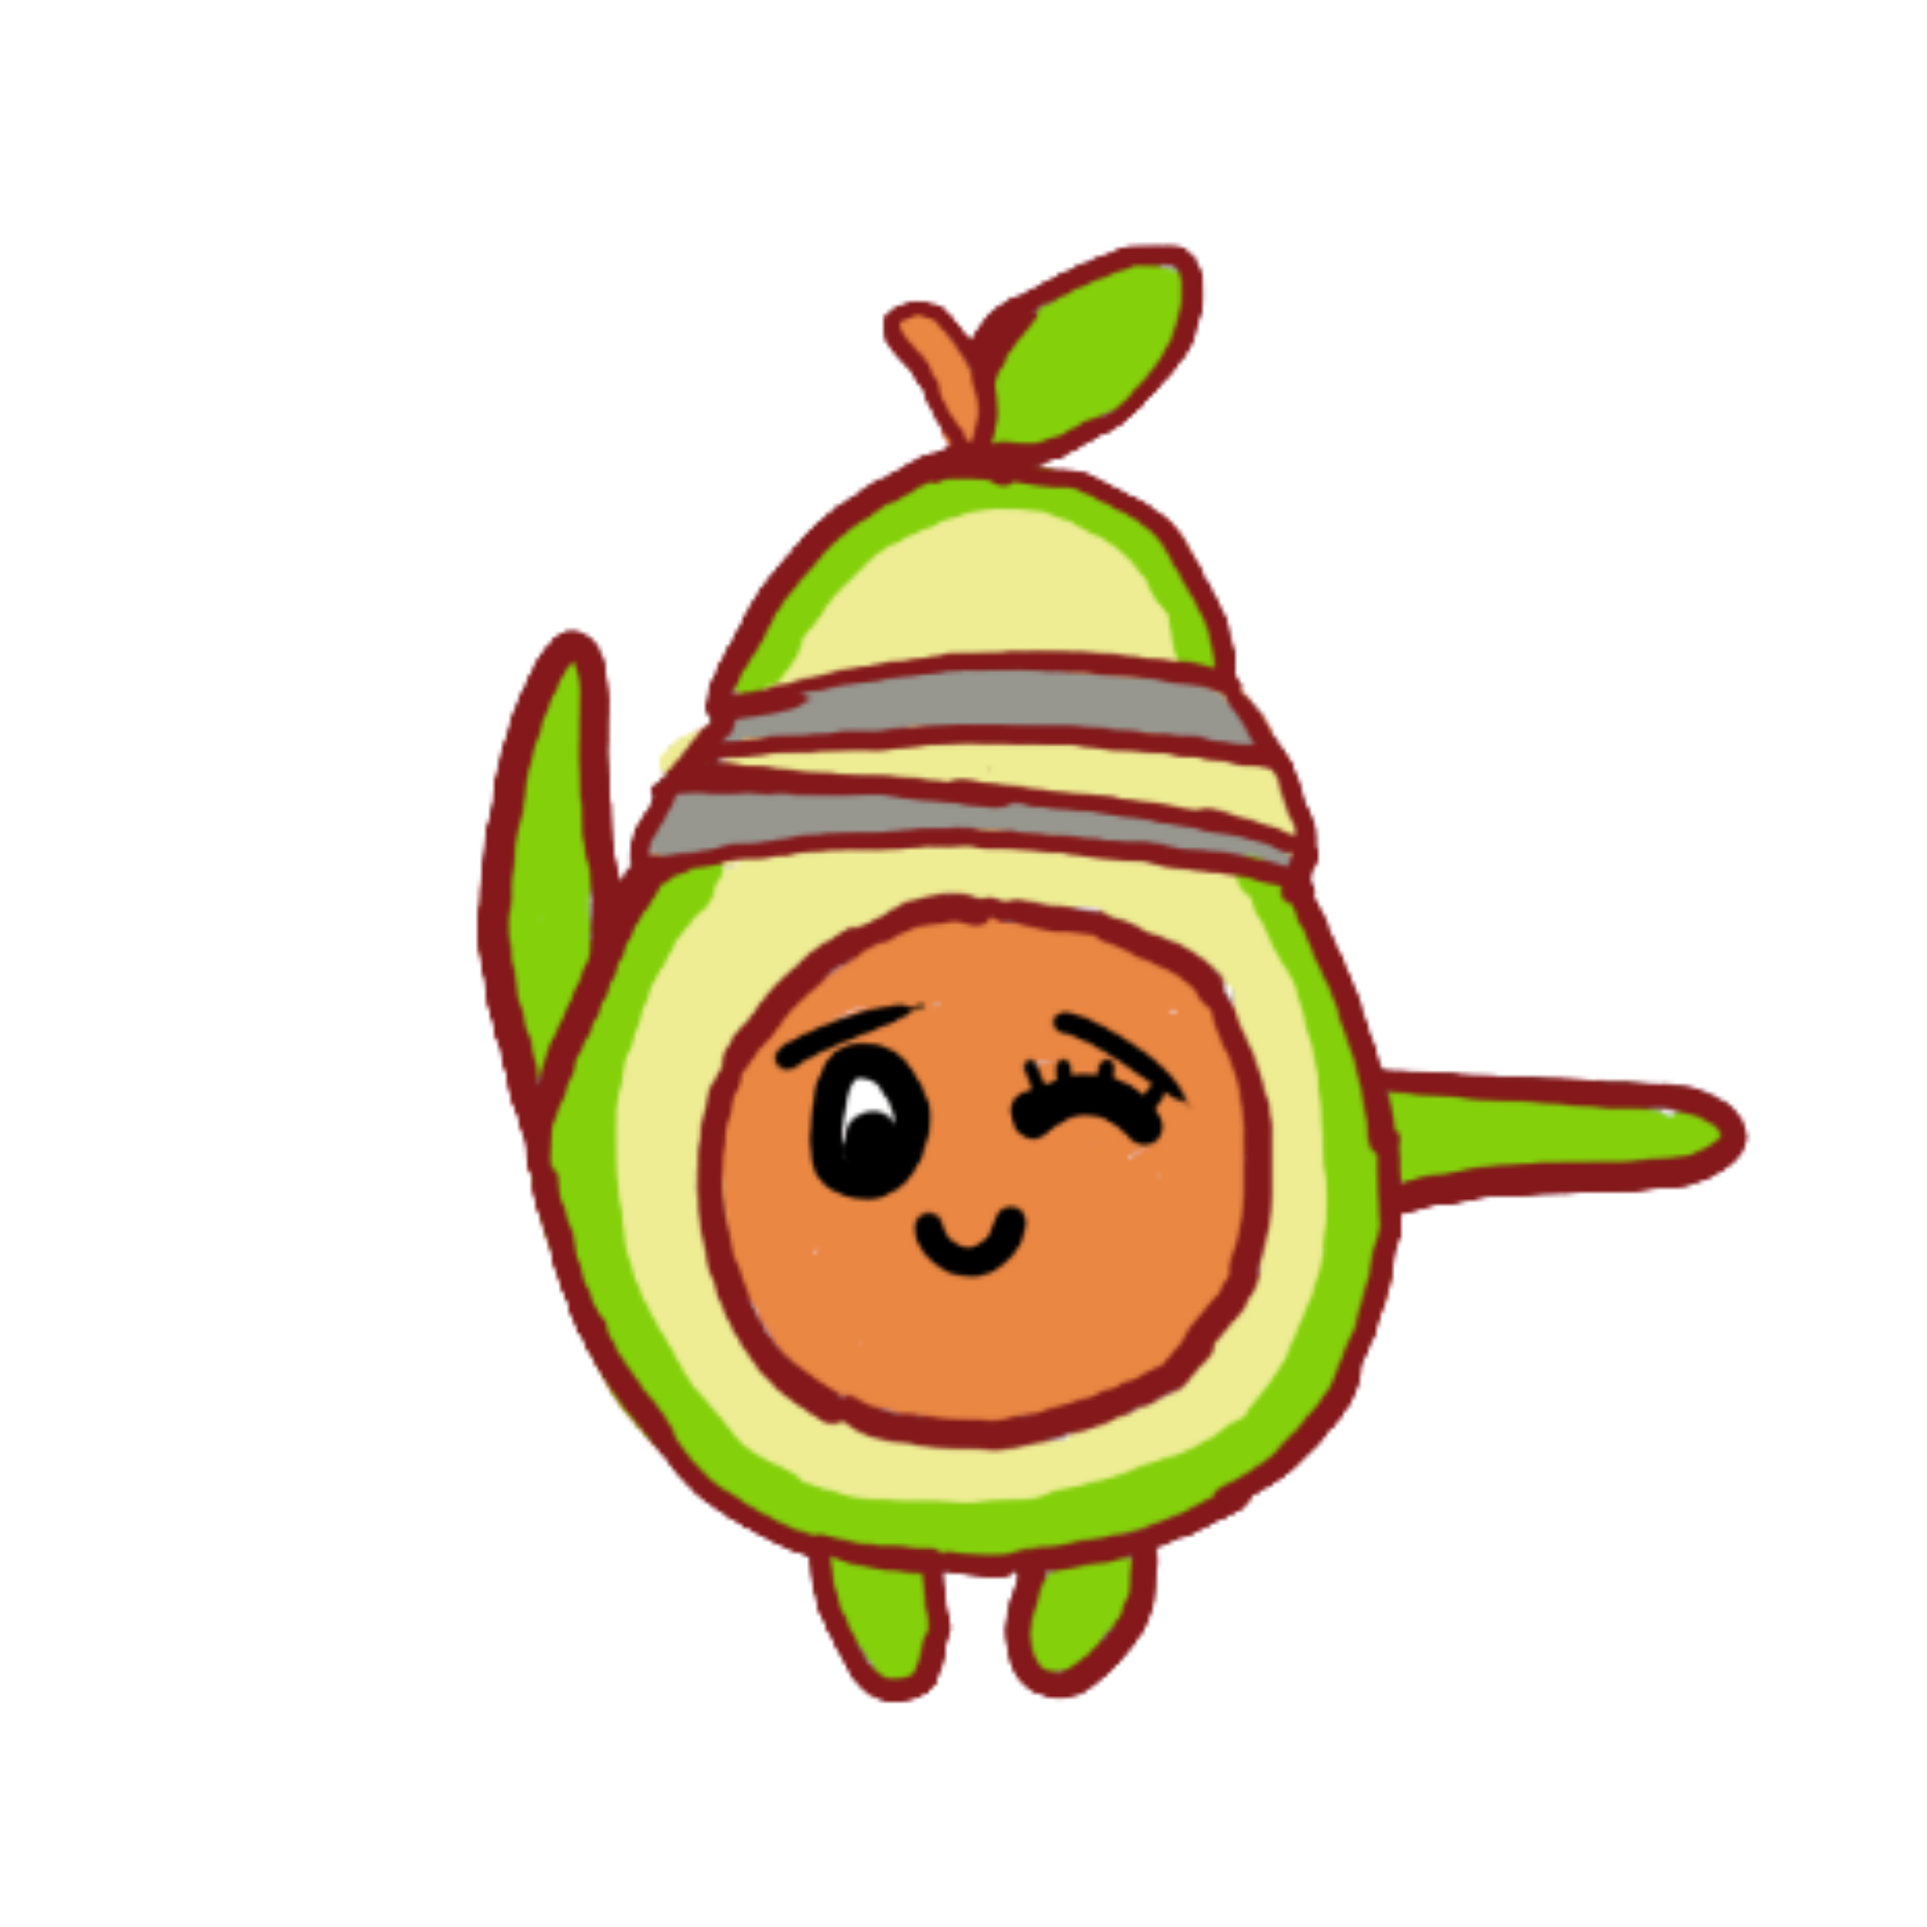
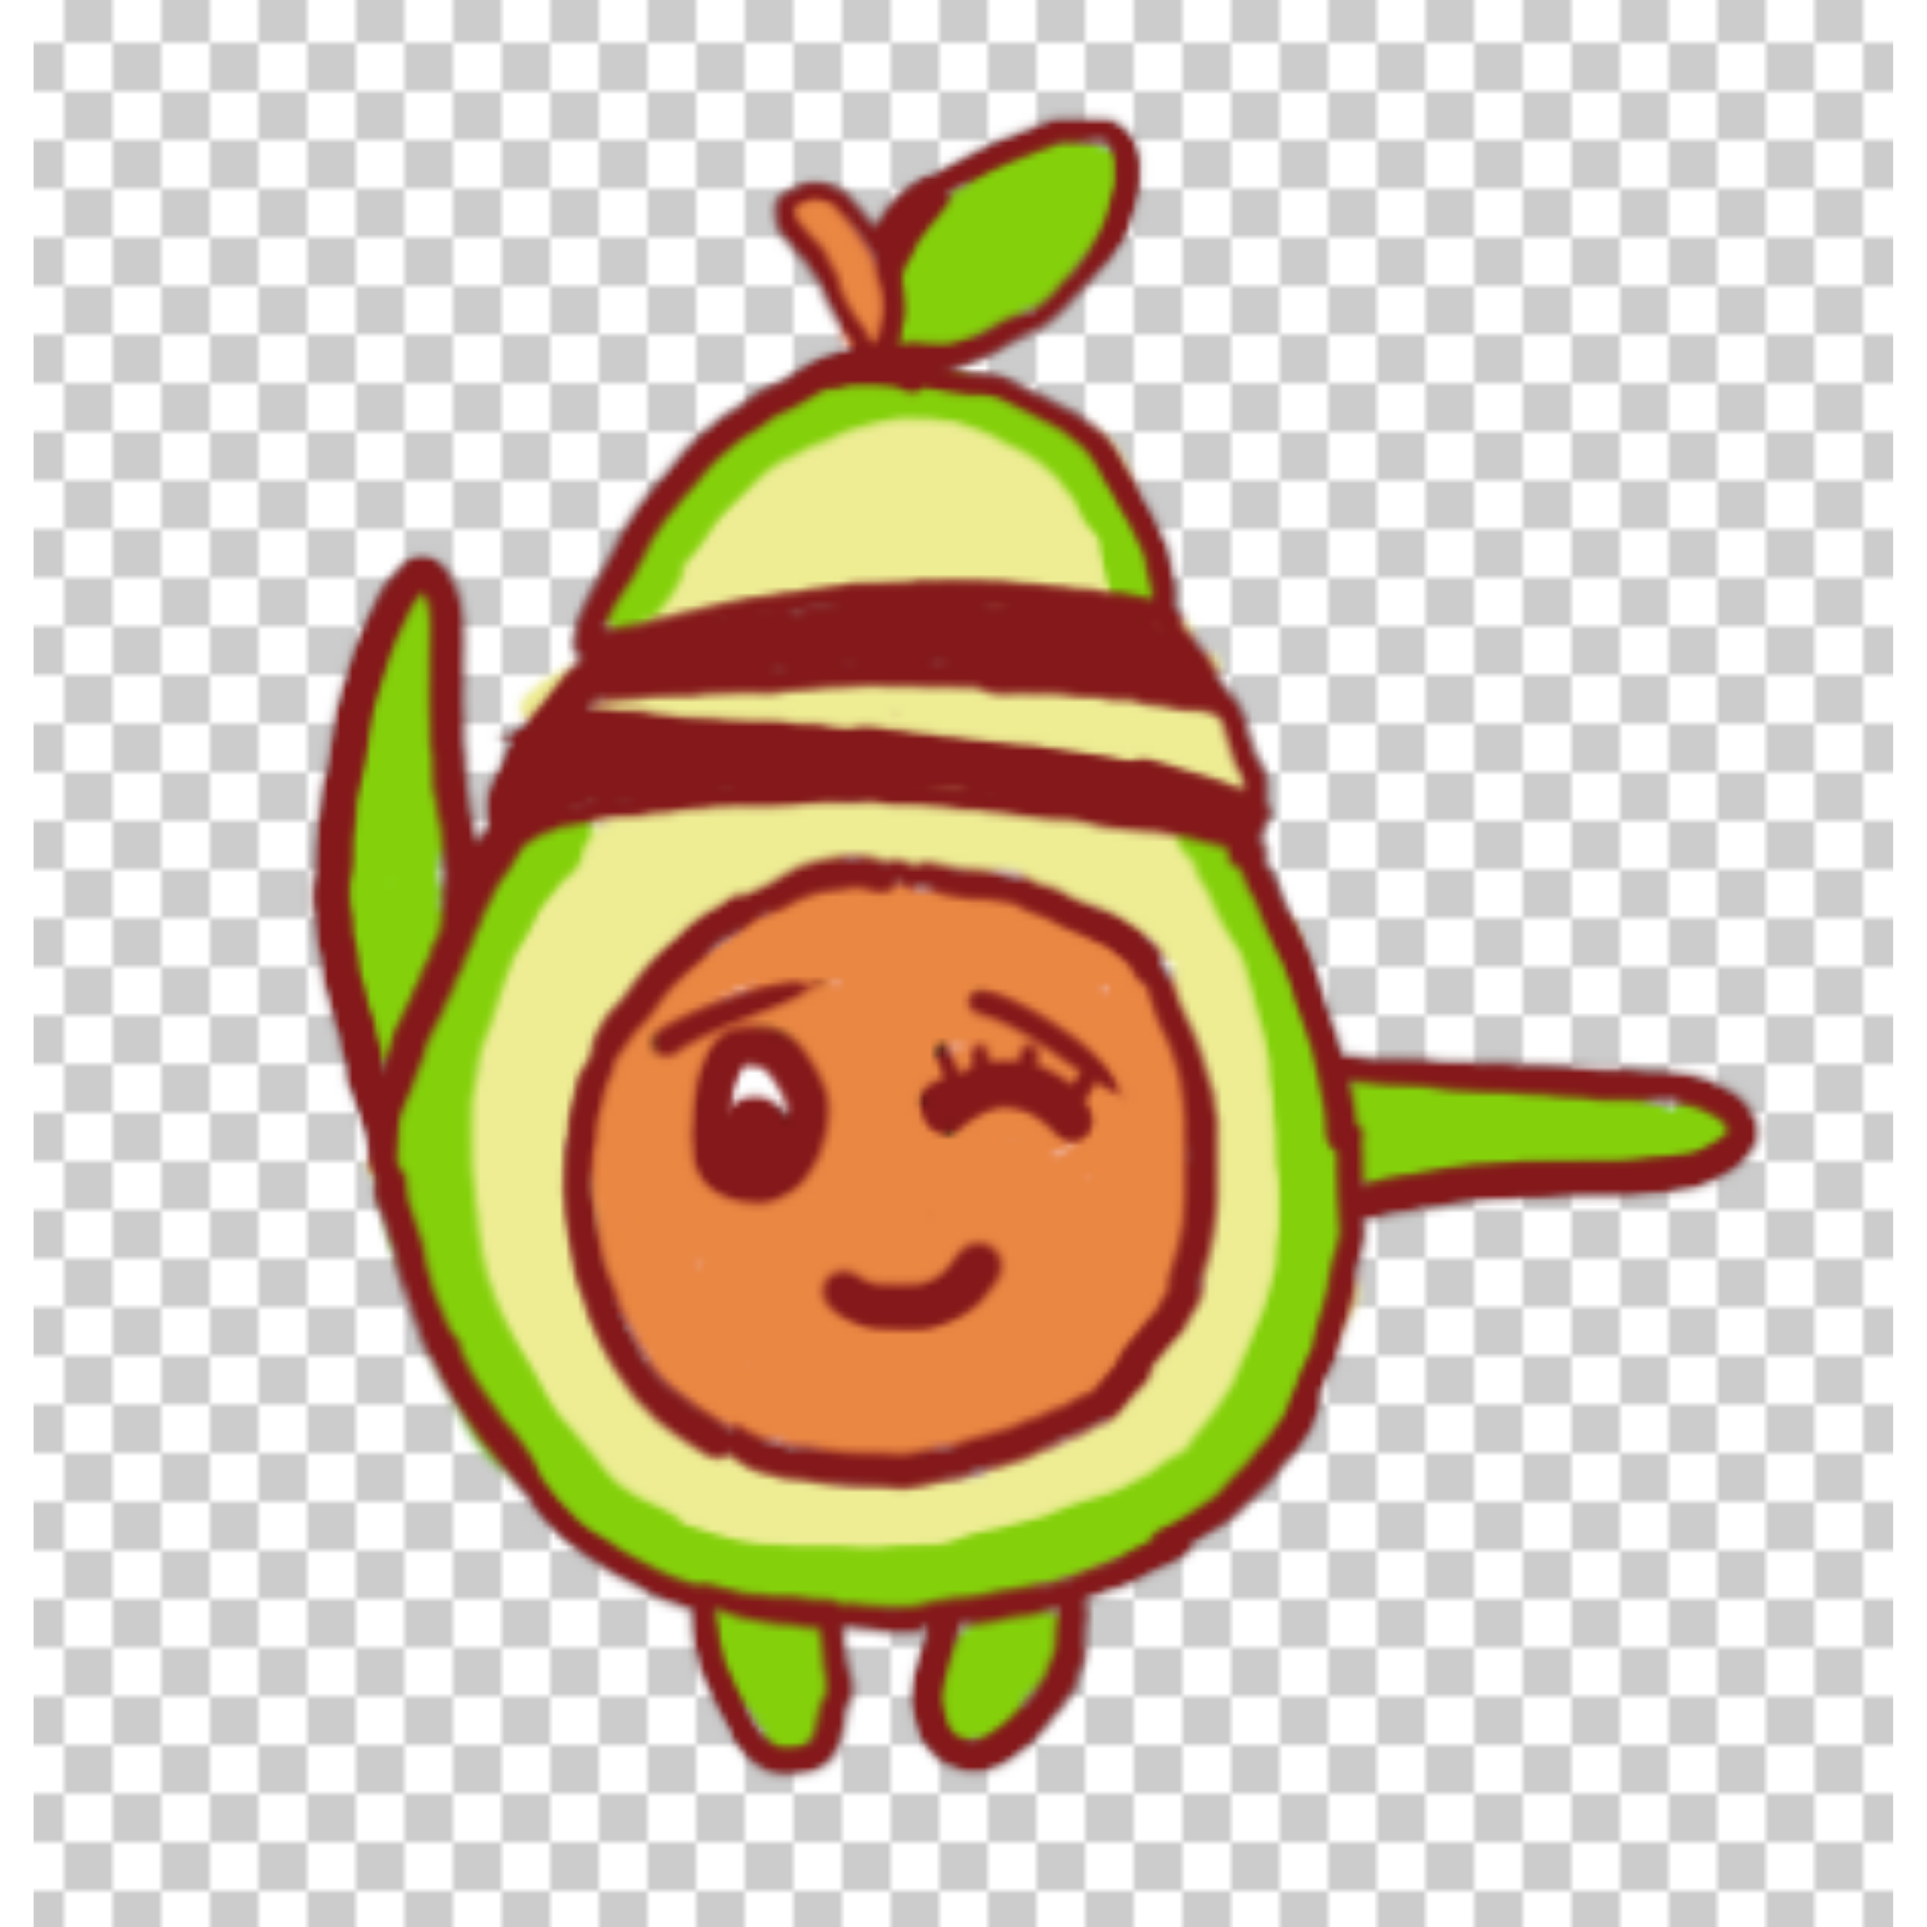
I added aother image to the images folder and home page and removed the old one

diff --git a/index.html b/index.html
@@ -49,7 +49,7 @@
 
         <div class="avocado-container">
 
-            <img src="Images\avocado-homepage.png" alt="Avocado">
+            <img src="Images\winking-avacado-homepage-image.png" alt="Avocado">
             <img src="Images\avocado-homepage-image.png" alt="Avocado">
 
         </div>
